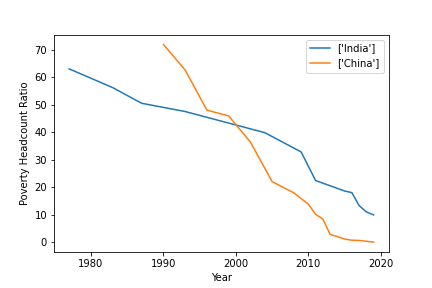
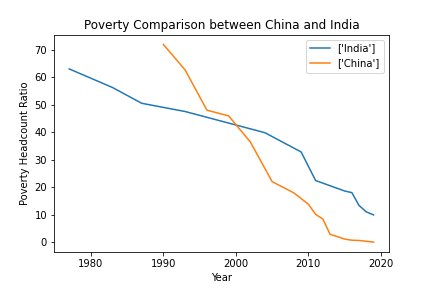
ADS1 Assignment commit#2 Comments and docs added

Changed region(s): [[0.1806, 0.0625, 0.8426, 0.125]]

diff --git a/lineplot.py b/lineplot.py
@@ -8,7 +8,7 @@ print(df_countries.columns)
 
 # As the third and fourth column have nominal data which are not required for a
 # line plot, those columns can be dropped
-df_countries.drop(df_countries.columns[[2, 3]], axis=1, inplace=True)
+df_countries.drop(df_countries.columns[[2, 3]], axis = 1, inplace = True)
 print(df_countries)
 
 # Data Manipulation to transpose the matrix for a line plot to display the
@@ -25,7 +25,7 @@ df_countries_t.index = df_countries_t.index.astype(int)
 print(df_countries_t)
 
 
-def lineplot(df1, df2):
+def lineplot(df1, df2, title):
     """ Function to compare poverty rates of two countries by
         creating a lineplot between the index and respective dataframe
         containing single column representing the country's data.
@@ -33,17 +33,19 @@ def lineplot(df1, df2):
         Arguments:
         Two dataframes with index as "x" and the country specific dataframe
         which has a single column to be taken as "y".
+        title (String): Title for the Line plot
     """
 
     plt.figure()
-    plt.plot(df1.index, df1, label=df1.columns.values)
-    plt.plot(df2.index, df2, label=df2.columns.values)
+    plt.plot(df1.index, df1, label = df1.columns.values)
+    plt.plot(df2.index, df2, label = df2.columns.values)
 
     # labelling
     plt.xlabel("Year")
     plt.ylabel("Poverty Headcount Ratio")
-
     plt.legend()
+    plt.title(title)
+
     # Save the line plot as png
     plt.savefig("PovertyRatioLinePlot.png")
     plt.show()
@@ -56,4 +58,4 @@ df_india = df_countries_t[["India"]].dropna()
 df_china = df_countries_t[["China"]].dropna()
 
 # Calling lineplot function to plot the poverty rates for India and Argentina
-lineplot(df_india, df_china)
+lineplot(df_india, df_china, "Poverty Comparison between China and India")

diff --git a/barplot.py b/barplot.py
@@ -1,6 +1,7 @@
 import pandas as pd
 import matplotlib.pyplot as plt
 
+# Importing Wine Production Dataset
 df_wineproduction = pd.read_csv("Wine_Data.csv", index_col=0)
 print(df_wineproduction.head())
 print(df_wineproduction.columns)
@@ -16,20 +17,22 @@ print("Number of Provinces producing wine: ",
 # respective category i.e. column
 
 
-def barplotfortopten(df, column):
+def barplotfortopten(df, column, title):
     """ Function to select top ten by summing the counts of unique values in
         the column and taking the first ten values
 
         Arguments:
         df (DataFrame): dataframe
         column (String): Column name from the dataframe
+        title (String): Title for the bar plot
     """
     # Slicing the top ten by the summation of counts of the unique values
     top_ten = df[column].value_counts()[:10]
 
     # Plotting a bar plot for the top ten
-    top_ten.plot(kind='bar', figsize=(10, 6))
+    top_ten.plot(kind = 'bar', figsize = (10, 6))
     plt.legend()
+    plt.title(title)
 
     # Save the plots as png based on the column name
     plt.tight_layout()
@@ -40,7 +43,9 @@ def barplotfortopten(df, column):
 
 
 # Bar plot for the Top Ten Countries producing wine
-barplotfortopten(df_wineproduction, "country")
+barplotfortopten(df_wineproduction, "country",
+                 "Top Ten Countries in Wine Production")
 
-# Bar plot for the Top Ten Provinces producing wine
-barplotfortopten(df_wineproduction, "province")
+# Bar plot for the Top Ten Provinces in USA producing wine
+barplotfortopten(df_wineproduction[df_wineproduction["country"] == "US"],
+                 "province", "Top Ten Provinces in USA producing Wine")

diff --git a/piechart.py b/piechart.py
@@ -1,22 +1,44 @@
 import pandas as pd
 import matplotlib.pyplot as plt
 
+# Import HR Analysis Dataset
 df_hr = pd.read_csv("HR_Analysis.csv")
 print(df_hr.head())
 
+# Function to calculate column wise sums for plotting a pie chart
 
-df = df_hr.groupby('department').size()
-df.plot(kind='pie', subplots=True, figsize=(15, 8))
-plt.title("Pie Chart of different types of education")
+
+def sumofuniquecounts(df, column):
+    """ Function to sum the counts of unique values in
+        the column
+
+        Arguments:
+        df (DataFrame): dataframe
+        column (String): Column name from the dataframe
+    """
+    sum = df_hr.groupby(column).size()
+    return sum
+
+
+# Pie chart between the levels of education among the applicants
+plt.subplots(figsize = (15, 8))
+plt.pie(sumofuniquecounts(df_hr, "department"),
+        labels = df_hr['department'].unique())
+plt.title("Levels of Education")
 plt.ylabel("")
-#plt.show()
 
-size = [38496, 16312]
-labels = "Male", "Female"
-explode = [0, 0.1]
+# Saving the Pie Chart as png
+plt.savefig("LevelsOfEducation_Piechart.png")
+plt.show()
 
-plt.subplots(figsize=(8,8))
-plt.pie(size, labels = labels, explode = explode, shadow = True, autopct = "%.2f%%")
-plt.title('A Pie Chart Representing GenderGap', fontsize = 20)
+
+# Pie chart for gender distribution among the applicants
+plt.subplots(figsize = (8, 8))
+plt.pie(sumofuniquecounts(df_hr, "gender"), labels = ["Male", "Female"],
+        explode = [0, 0.1], shadow = True, autopct = "%.2f%%")
+plt.title("Gender Distribution", fontsize = 20)
 plt.legend()
+
+# Saving the Pie Chart as png
+plt.savefig("GenderDistribution_Piechart.png")
 plt.show()
